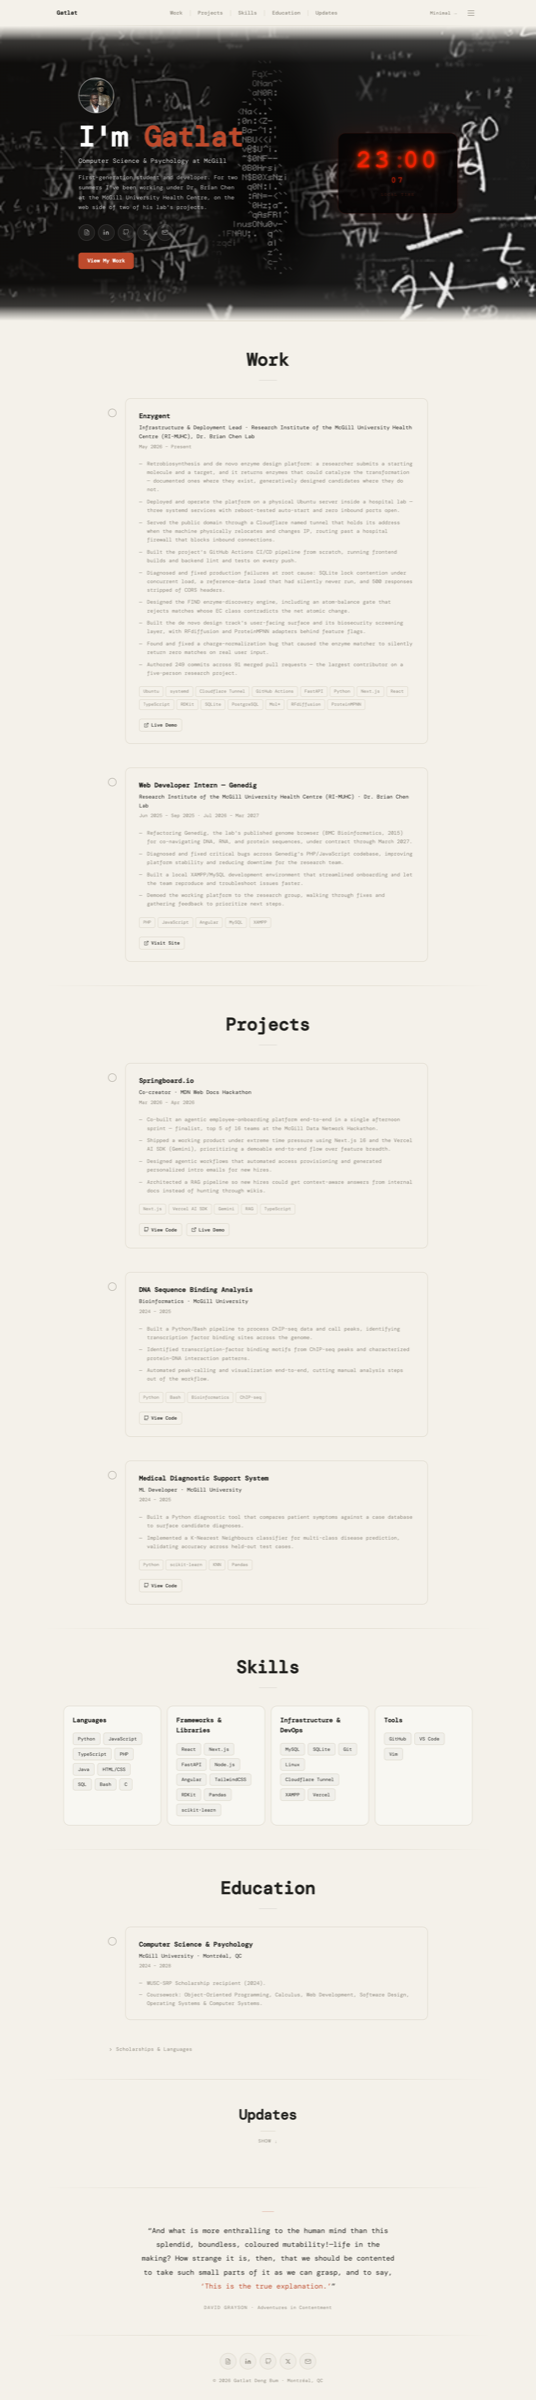
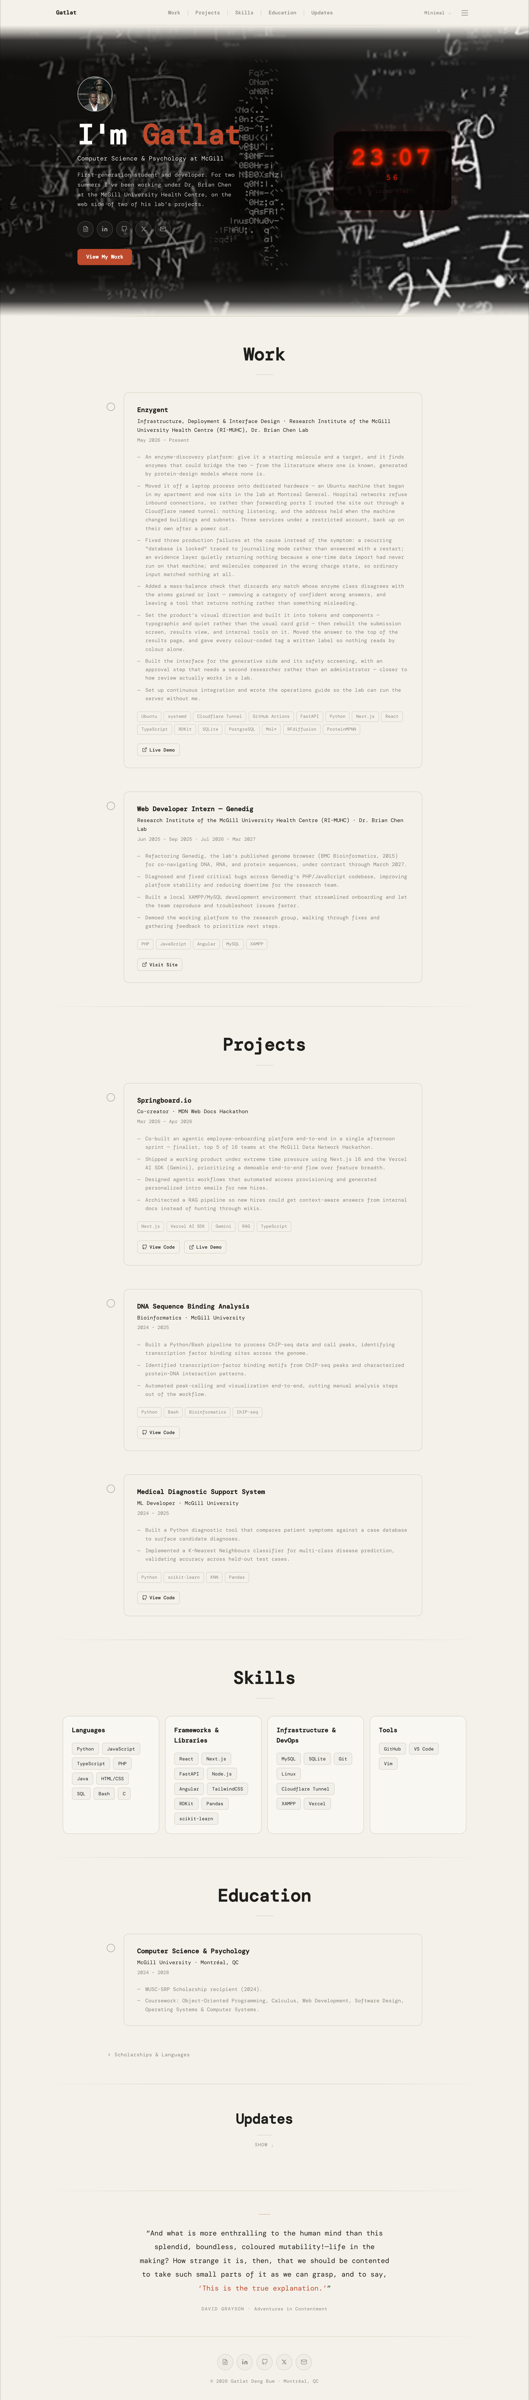
Condense Enzygent entry and add the design work
Seven bullets instead of eleven, reworded rather than lifted from the
contributions doc. Group the three production fixes into one bullet,
add the interface and design-system work, and name interface design in
the role line. Drop the commit-count bullet.

diff --git a/src/data/work.ts b/src/data/work.ts
@@ -14,20 +14,18 @@ export const jobs: Project[] = [
   {
     id: 'enzygent',
     title: 'Enzygent',
-    role: 'Infrastructure & Deployment Lead · Research Institute of the McGill University Health Centre (RI-MUHC), Dr. Brian Chen Lab',
+    role: 'Infrastructure, Deployment & Interface Design · Research Institute of the McGill University Health Centre (RI-MUHC), Dr. Brian Chen Lab',
     org: 'enzygent.org',
     year: 'May 2026 – Present',
     description: '',
     bullets: [
-      'Retrobiosynthesis and de novo enzyme design platform: a researcher submits a starting molecule and a target, and it returns enzymes that could catalyze the transformation — documented ones where they exist, generatively designed candidates where they do not.',
-      'Deployed and operate the platform on a physical Ubuntu server inside a hospital lab — three systemd services with reboot-tested auto-start and zero inbound ports open.',
-      'Served the public domain through a Cloudflare named tunnel that holds its address when the machine physically relocates and changes IP, routing past a hospital firewall that blocks inbound connections.',
-      'Built the project\'s GitHub Actions CI/CD pipeline from scratch, running frontend builds and backend lint and tests on every push.',
-      'Diagnosed and fixed production failures at root cause: SQLite lock contention under concurrent load, a reference-data load that had silently never run, and 500 responses stripped of CORS headers.',
-      'Designed the FIND enzyme-discovery engine, including an atom-balance gate that rejects matches whose EC class contradicts the net atomic change.',
-      'Built the de novo design track\'s user-facing surface and its biosecurity screening layer, with RFdiffusion and ProteinMPNN adapters behind feature flags.',
-      'Found and fixed a charge-normalization bug that caused the enzyme matcher to silently return zero matches on real user input.',
-      'Authored 249 commits across 91 merged pull requests — the largest contributor on a five-person research project.',
+      'An enzyme-discovery platform: give it a starting molecule and a target, and it finds enzymes that could bridge the two — from the literature where one is known, generated by protein-design models where none is.',
+      'Moved it off a laptop process onto dedicated hardware — an Ubuntu machine that began in my apartment and now sits in the lab at Montreal General. Hospital networks refuse inbound connections, so rather than forwarding ports I routed the site out through a Cloudflare named tunnel: nothing listening, and the address held when the machine changed buildings and subnets. Three services under a restricted account, back up on their own after a power cut.',
+      'Fixed three production failures at the cause instead of the symptom: a recurring "database is locked" traced to journalling mode rather than answered with a restart; an evidence layer quietly returning nothing because a one-time data import had never run on that machine; and molecules compared in the wrong charge state, so ordinary input matched nothing at all.',
+      'Added a mass-balance check that discards any match whose enzyme class disagrees with the atoms gained or lost — removing a category of confident wrong answers, and leaving a tool that returns nothing rather than something misleading.',
+      'Set the product\'s visual direction and built it into tokens and components — typographic and quiet rather than the usual card grid — then rebuilt the submission screen, results view, and internal tools on it. Moved the answer to the top of the results page, and gave every colour-coded tag a written label so nothing reads by colour alone.',
+      'Built the interface for the generative side and its safety screening, with an approval step that needs a second researcher rather than an administrator — closer to how review actually works in a lab.',
+      'Set up continuous integration and wrote the operations guide so the lab can run the server without me.',
     ],
     tech: ['Ubuntu', 'systemd', 'Cloudflare Tunnel', 'GitHub Actions', 'FastAPI', 'Python', 'Next.js', 'React', 'TypeScript', 'RDKit', 'SQLite', 'PostgreSQL', 'Mol*', 'RFdiffusion', 'ProteinMPNN'],
     links: [
